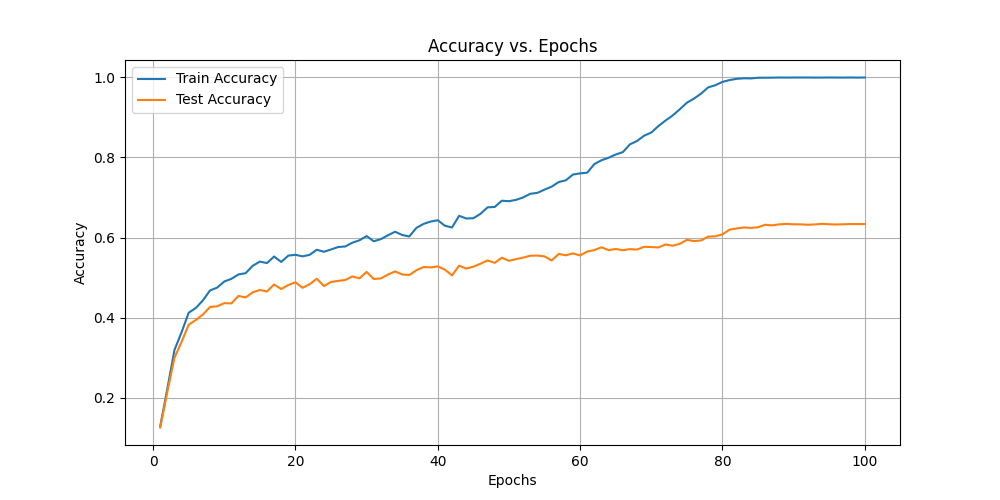
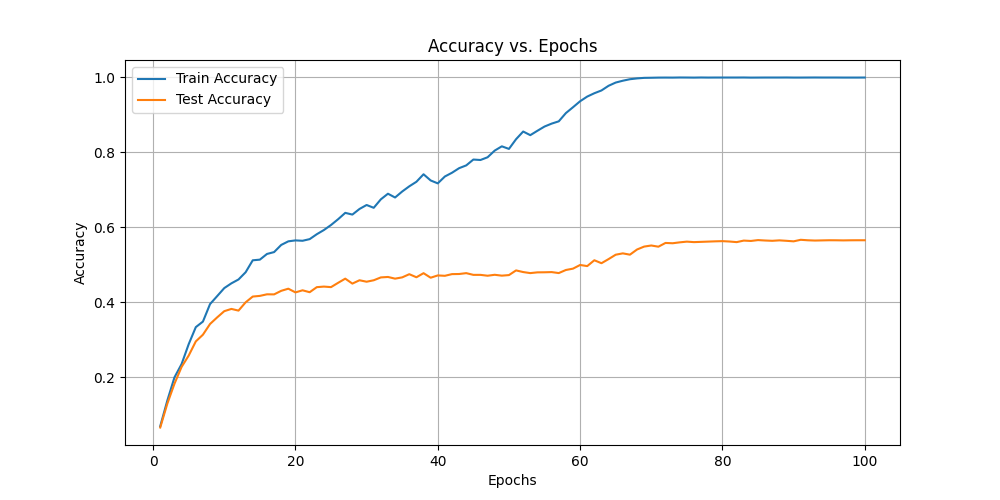
finish adaround

diff --git a/AdaRound/main_quant.py b/AdaRound/main_quant.py
@@ -5,6 +5,31 @@ from torchvision import models
 from utils import *
 from adaround import layer_reconstruction
 import os
+def select_best_gpu():
+    import pynvml
+    pynvml.nvmlInit()  # 初始化
+    gpu_count = pynvml.nvmlDeviceGetCount()
+    if gpu_count == 0:
+        device = "cpu"
+    else:
+        gpu_id, max_free_mem = 0, 0.
+        for i in range(gpu_count):
+            handle = pynvml.nvmlDeviceGetHandleByIndex(i)
+            memory_free = round(pynvml.nvmlDeviceGetMemoryInfo(handle).free/(1024*1024*1024), 3)  # 单位GB
+            if memory_free > max_free_mem:
+                gpu_id = i
+                max_free_mem = memory_free
+        device = f"cuda:{gpu_id}"
+        print(f"total have {gpu_count} gpus, max gpu free memory is {max_free_mem}, which gpu id is {gpu_id}")
+    return device
+
+
+available_device = select_best_gpu()
+
+# 方法1：直接通过os全局设置GPU    
+import os
+if available_device.startswith("cuda"):
+    os.environ['CUDA_VISIBLE_DEVICES'] = available_device.split(":")[1]
 
 parser = argparse.ArgumentParser(formatter_class=argparse.ArgumentDefaultsHelpFormatter)
 
@@ -18,18 +43,32 @@ parser.add_argument('--keep',type=str,default='')
 parser.add_argument('--logit_save_path',type=str,default='../dat/')
 parser.add_argument('--nqueries',type=int,default=2)
 
+parser.add_argument('--dataset',type=str,default='tiny-imagenet')
+
 args = parser.parse_args()
 
 seed_all(args.seed)
 
-model= models.resnet18(num_classes = 10, weights = None)
+nclasses = 0
+if args.dataset == 'tiny-imagenet':
+    nclasses = 200
+elif args.dataset == 'cifar10':
+    nclasses = 10
+else:
+    raise NotImplementedError
+model = models.resnet18(weights=None, num_classes=nclasses)
 model.conv1 = nn.Conv2d(3, 64, kernel_size=3, stride=1, padding=1, bias=False)
 model.maxpool = nn.Identity()
 model.load_state_dict(torch.load(args.load,weights_only=True))
 model.cuda()
 model.eval()
 
-trainloader, caliloader, testloader = get_loaders(args.datapath, nsamples=1024, batchsize=32,keep_file = args.keep)
+# trainloader, caliloader, testloader = get_loaders(args.datapath, nsamples=1024, batchsize=32,keep_file = args.keep)
+import sys; sys.path.append('../tiny_imagenet')
+from TinyImagenet import *
+
+caliloader, testloader = get_dataloaders(args.dataset, args.datapath, nsamples=1024, batchsize=32, keep_file = args.keep)
+trainloader = TinyImageNet(root=args.datapath, train=True, transform=train_trans)
 
 print(f'accuracy: {get_acc(model, testloader):.4f}')
 
@@ -95,7 +134,7 @@ def save_train_test_accuracy(model, trainloader, testloader):
 
 if args.save:
     torch.save(model.state_dict(), args.save)
-    save_train_test_accuracy(model, trainloader, testloader)
+    save_train_test_accuracy(model, caliloader, testloader)
         
 def run_inference(queries, train_dl, model, save_dir):
     model.eval()

diff --git a/train_model.py b/train_model.py
@@ -2,9 +2,33 @@
 # https://github.com/tensorflow/privacy/blob/master/research/mi_lira_2021/train.py
 #
 # author: Chenxiang Zhang (orientino)
+def select_best_gpu():
+    import pynvml
+    pynvml.nvmlInit()  # 初始化
+    gpu_count = pynvml.nvmlDeviceGetCount()
+    if gpu_count == 0:
+        device = "cpu"
+    else:
+        gpu_id, max_free_mem = 0, 0.
+        for i in range(gpu_count):
+            handle = pynvml.nvmlDeviceGetHandleByIndex(i)
+            memory_free = round(pynvml.nvmlDeviceGetMemoryInfo(handle).free/(1024*1024*1024), 3)  # 单位GB
+            if memory_free > max_free_mem:
+                gpu_id = i
+                max_free_mem = memory_free
+        device = f"cuda:{gpu_id}"
+        print(f"total have {gpu_count} gpus, max gpu free memory is {max_free_mem}, which gpu id is {gpu_id}")
+    return device
+
+
+available_device = select_best_gpu()
+
+# 方法1：直接通过os全局设置GPU    
+import os
+if available_device.startswith("cuda"):
+    os.environ['CUDA_VISIBLE_DEVICES'] = available_device.split(":")[1]
 
 import argparse
-import os
 import time
 from pathlib import Path
 

diff --git a/tiny_imagenet/TinyImagenet.py b/tiny_imagenet/TinyImagenet.py
@@ -7,6 +7,15 @@ import os
 from PIL import Image
 from torchvision.datasets import CIFAR10
 
+train_trans = transforms.Compose(
+        [
+            transforms.RandomHorizontalFlip(),
+            transforms.RandomCrop(64, padding=4),
+            transforms.ToTensor(),
+            transforms.Normalize((0.485,0.456,0.406), (0.229,0.224,0.225)),
+        ]
+    )
+
 class TinyImageNet(Dataset):
     def __init__(self, root, train=True, transform=None):
         self.Train = train
